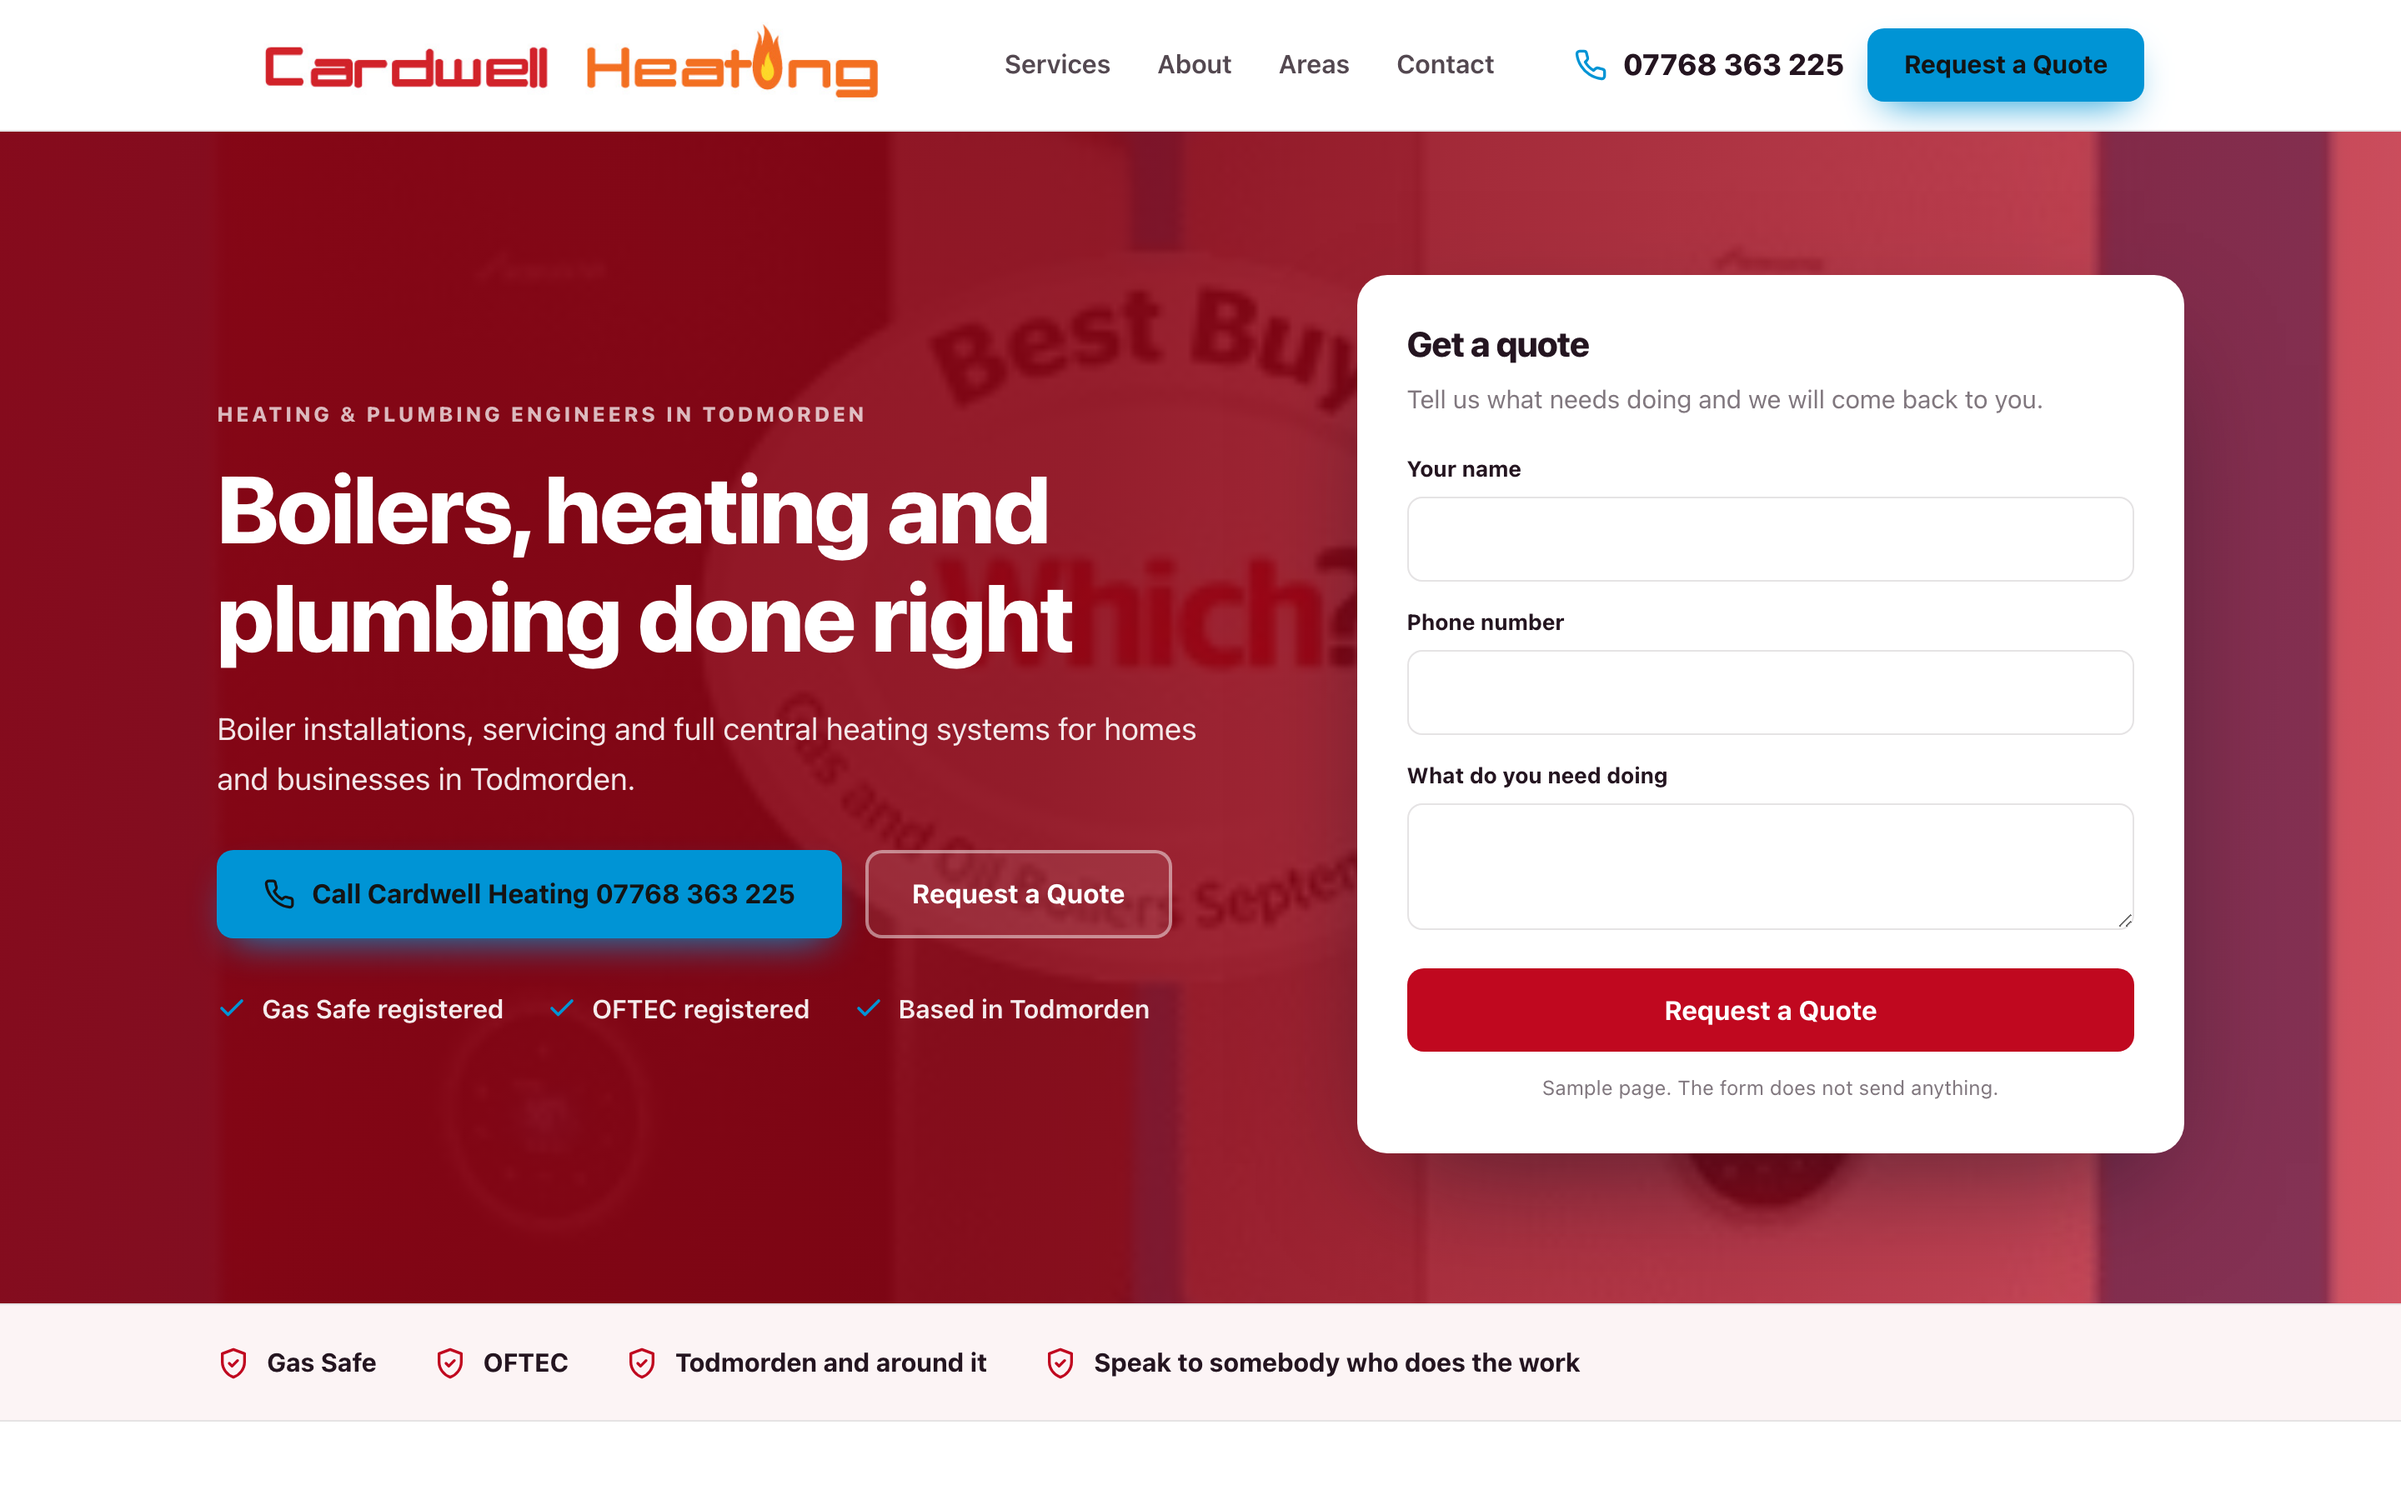
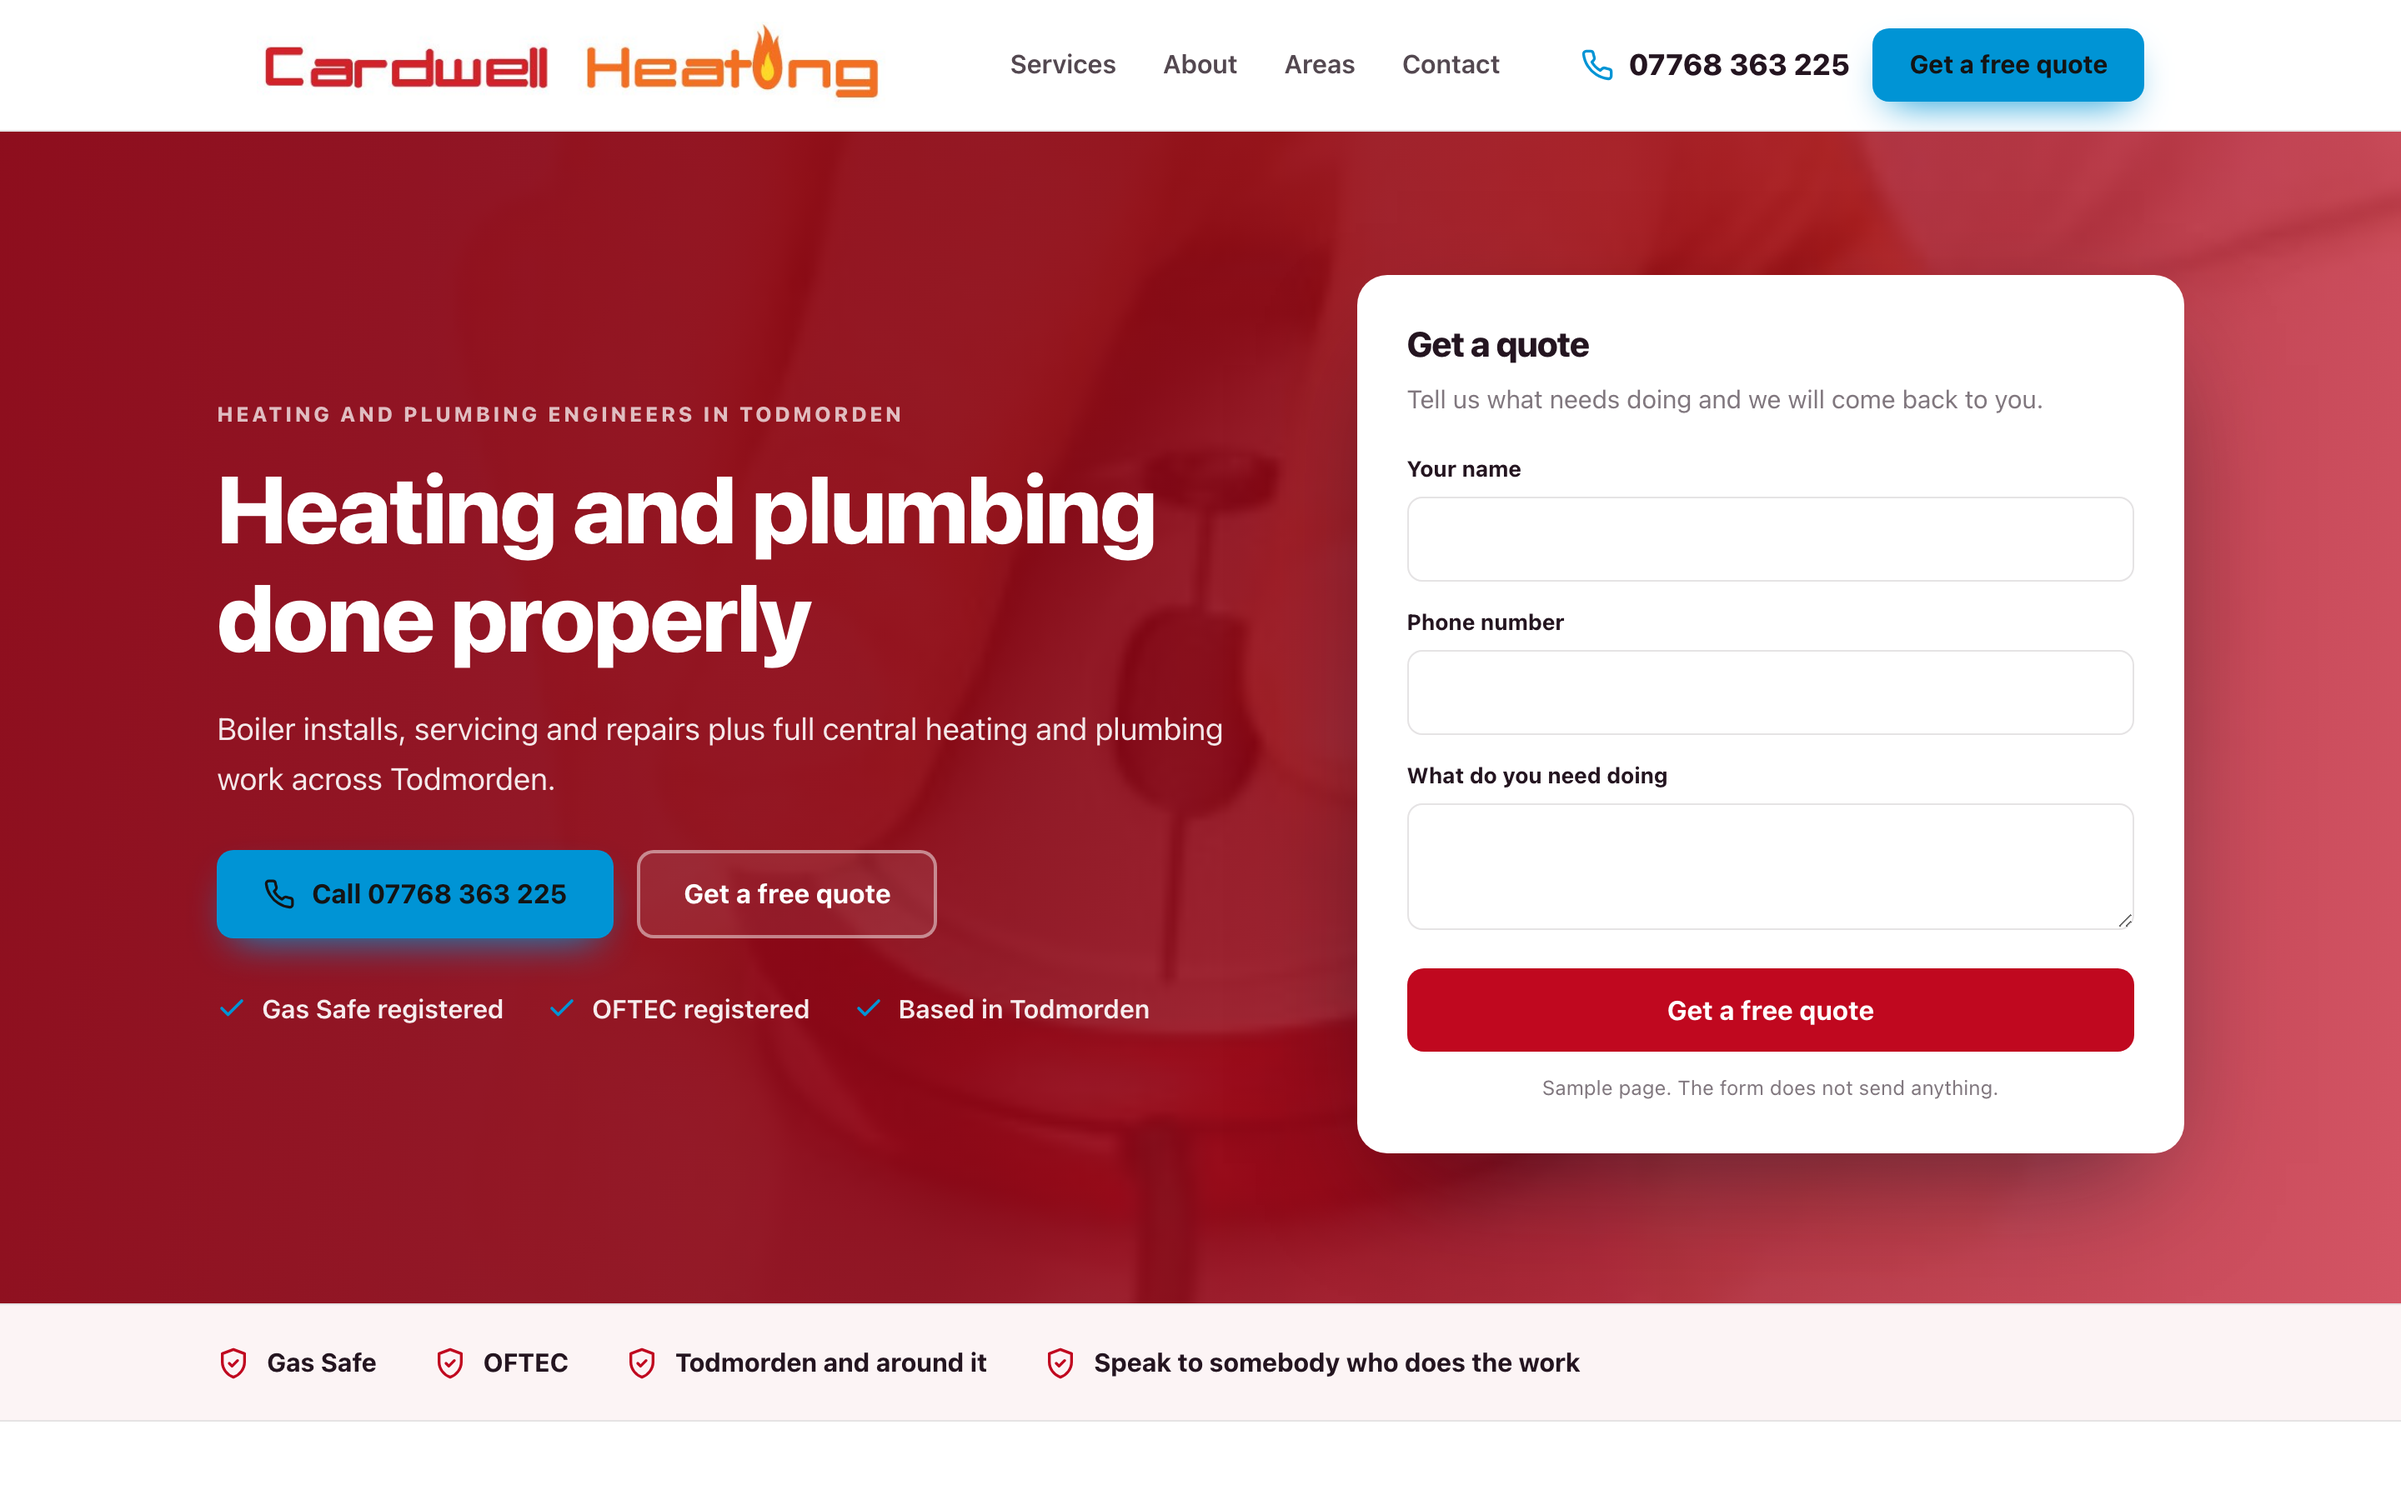
Sample homepage for Cardwell Heating

diff --git a/docs/a19a406a34/index.html b/docs/a19a406a34/index.html
@@ -4,14 +4,15 @@
 <meta charset="utf-8">
 <meta name="viewport" content="width=device-width, initial-scale=1">
 <meta name="robots" content="noindex,nofollow">
-<title>Cardwell Heating Todmorden sample homepage</title>
-<meta name="description" content="Boiler installations, servicing and full central heating systems for homes and businesses in Todmorden.">
+<meta name="aso-build" content="">
+<title>Cardwell Heating sample homepage</title>
+<meta name="description" content="Boiler installs, servicing and repairs plus full central heating and plumbing work across Todmorden.">
 <link rel="canonical" href="https://markygff.github.io/aso-mockups/a19a406a34/">
 <meta property="og:type" content="website">
-<meta property="og:title" content="Cardwell Heating Todmorden sample homepage">
-<meta property="og:description" content="Boiler installations, servicing and full central heating systems for homes and businesses in Todmorden.">
+<meta property="og:title" content="Cardwell Heating sample homepage">
+<meta property="og:description" content="Boiler installs, servicing and repairs plus full central heating and plumbing work across Todmorden.">
 <meta property="og:url" content="https://markygff.github.io/aso-mockups/a19a406a34/">
-<meta property="og:image" content="http://www.i-promote.eu/wai/wai_global/home_banner/gold_banner_365.jpg"><style>
+<meta property="og:image" content="img/t13.jpg"><style>
 :root{
   --primary:#c0081f;
   --primary-dark:#8a0616;
@@ -52,7 +53,8 @@ p{margin:0}
 .nav{display:flex;gap:28px;margin-left:auto;font-weight:600;font-size:.97rem;color:var(--ink)}
 .nav span{opacity:.78}
 .header-cta{display:flex;align-items:center;gap:14px;margin-left:28px}
-.tel{display:flex;align-items:center;gap:9px;font-weight:800;font-size:1.1rem;color:var(--ink)}
+.tel{display:flex;align-items:center;gap:9px;font-weight:800;font-size:1.1rem;
+     color:var(--ink);text-decoration:none}
 .tel svg{width:20px;height:20px;color:var(--accent)}
 .header-cta .btn{padding:12px 20px;font-size:.95rem}
 
@@ -119,27 +121,27 @@ p{margin:0}
 <header class="header">
   <div class="wrap header-in">
     <div class="brand">
-<img src="https://www.cardwellheating.co.uk/images/logo.jpg" alt="Cardwell Heating Todmorden logo">    </div>
+<img src="img/logo.jpg" alt="Cardwell Heating logo">    </div>
     <nav class="nav">
       <span>Services</span><span>About</span><span>Areas</span><span>Contact</span>
     </nav>
     <div class="header-cta">
-      <span class="tel"><svg viewBox="0 0 24 24" fill="none" stroke="currentColor" stroke-width="2" stroke-linecap="round" stroke-linejoin="round" aria-hidden="true"><path d="M22 16.9v3a2 2 0 0 1-2.2 2 19.8 19.8 0 0 1-8.6-3.1 19.5 19.5 0 0 1-6-6 19.8 19.8 0 0 1-3.1-8.7A2 2 0 0 1 4.1 2h3a2 2 0 0 1 2 1.7c.1 1 .4 1.9.7 2.8a2 2 0 0 1-.5 2.1L8.1 9.9a16 16 0 0 0 6 6l1.3-1.2a2 2 0 0 1 2.1-.5c.9.3 1.8.6 2.8.7a2 2 0 0 1 1.7 2z"/></svg><span>07768 363 225</span></span>
-      <span class="btn btn-accent">Request a Quote</span>
+      <a class="tel" href="tel:+447768363225"><svg viewBox="0 0 24 24" fill="none" stroke="currentColor" stroke-width="2" stroke-linecap="round" stroke-linejoin="round" aria-hidden="true"><path d="M22 16.9v3a2 2 0 0 1-2.2 2 19.8 19.8 0 0 1-8.6-3.1 19.5 19.5 0 0 1-6-6 19.8 19.8 0 0 1-3.1-8.7A2 2 0 0 1 4.1 2h3a2 2 0 0 1 2 1.7c.1 1 .4 1.9.7 2.8a2 2 0 0 1-.5 2.1L8.1 9.9a16 16 0 0 0 6 6l1.3-1.2a2 2 0 0 1 2.1-.5c.9.3 1.8.6 2.8.7a2 2 0 0 1 1.7 2z"/></svg><span>07768 363 225</span></a>
+      <span class="btn btn-accent">Get a free quote</span>
     </div>
   </div>
 </header>
 
 <section class="hero">
-  <div class="hero-bg"><img src="http://www.i-promote.eu/wai/wai_global/home_banner/gold_banner_365.jpg" alt="Worcester Boiler Guarantee Yorkshire" width="1600" height="900"></div>
+  <div class="hero-bg"><img src="img/t13.jpg" alt="Contact Cardwell Heating Lancashire" width="1600" height="900"></div>
   <div class="wrap hero-in">
     <div>
-      <p class="eyebrow">Heating &amp; plumbing engineers in Todmorden</p>
-      <h1>Boilers, heating and plumbing done right</h1>
-      <p class="hero-sub">Boiler installations, servicing and full central heating systems for homes and businesses in Todmorden.</p>
+      <p class="eyebrow">Heating and plumbing engineers in Todmorden</p>
+      <h1>Heating and plumbing done properly</h1>
+      <p class="hero-sub">Boiler installs, servicing and repairs plus full central heating and plumbing work across Todmorden.</p>
       <div class="hero-actions">
-        <span class="btn btn-accent"><svg viewBox="0 0 24 24" fill="none" stroke="currentColor" stroke-width="2" stroke-linecap="round" stroke-linejoin="round" aria-hidden="true"><path d="M22 16.9v3a2 2 0 0 1-2.2 2 19.8 19.8 0 0 1-8.6-3.1 19.5 19.5 0 0 1-6-6 19.8 19.8 0 0 1-3.1-8.7A2 2 0 0 1 4.1 2h3a2 2 0 0 1 2 1.7c.1 1 .4 1.9.7 2.8a2 2 0 0 1-.5 2.1L8.1 9.9a16 16 0 0 0 6 6l1.3-1.2a2 2 0 0 1 2.1-.5c.9.3 1.8.6 2.8.7a2 2 0 0 1 1.7 2z"/></svg>Call Cardwell Heating 07768 363 225</span>
-        <span class="btn btn-ghost">Request a Quote</span>
+        <span class="btn btn-accent"><svg viewBox="0 0 24 24" fill="none" stroke="currentColor" stroke-width="2" stroke-linecap="round" stroke-linejoin="round" aria-hidden="true"><path d="M22 16.9v3a2 2 0 0 1-2.2 2 19.8 19.8 0 0 1-8.6-3.1 19.5 19.5 0 0 1-6-6 19.8 19.8 0 0 1-3.1-8.7A2 2 0 0 1 4.1 2h3a2 2 0 0 1 2 1.7c.1 1 .4 1.9.7 2.8a2 2 0 0 1-.5 2.1L8.1 9.9a16 16 0 0 0 6 6l1.3-1.2a2 2 0 0 1 2.1-.5c.9.3 1.8.6 2.8.7a2 2 0 0 1 1.7 2z"/></svg>Call 07768 363 225</span>
+        <span class="btn btn-ghost">Get a free quote</span>
       </div>
       <ul class="hero-bullets">
 <li><svg viewBox="0 0 24 24" fill="none" stroke="currentColor" stroke-width="2.4" stroke-linecap="round" stroke-linejoin="round" aria-hidden="true"><path d="M20 6 9 17l-5-5"/></svg><span>Gas Safe registered</span></li><li><svg viewBox="0 0 24 24" fill="none" stroke="currentColor" stroke-width="2.4" stroke-linecap="round" stroke-linejoin="round" aria-hidden="true"><path d="M20 6 9 17l-5-5"/></svg><span>OFTEC registered</span></li><li><svg viewBox="0 0 24 24" fill="none" stroke="currentColor" stroke-width="2.4" stroke-linecap="round" stroke-linejoin="round" aria-hidden="true"><path d="M20 6 9 17l-5-5"/></svg><span>Based in Todmorden</span></li>      </ul>
@@ -150,7 +152,7 @@ p{margin:0}
       <div class="field"><label>Your name</label><input type="text" disabled></div>
       <div class="field"><label>Phone number</label><input type="tel" disabled></div>
       <div class="field"><label>What do you need doing</label><textarea disabled></textarea></div>
-      <span class="btn btn-primary">Request a Quote</span>
+      <span class="btn btn-primary">Get a free quote</span>
       <p class="sample-note">Sample page. The form does not send anything.</p>
     </div>
   </div>
@@ -169,29 +171,29 @@ p{margin:0}
   <div class="wrap">
     <div class="services-head">
       <p class="eyebrow">What we do</p>
-      <h2>Cardwell Heating Todmorden, Todmorden</h2>
-      <p>Boiler installations, servicing and full central heating systems for homes and businesses in Todmorden.</p>
+      <h2>Cardwell Heating, Todmorden</h2>
+      <p>Boiler installs, servicing and repairs plus full central heating and plumbing work across Todmorden.</p>
     </div>
     <div class="grid">
       <article class="card">
         <div class="icon"><svg viewBox="0 0 24 24" fill="none" stroke="currentColor" stroke-width="2" stroke-linecap="round" stroke-linejoin="round" aria-hidden="true"><path d="M14.7 6.3a4 4 0 0 0 5.3 5.3l-8 8a3 3 0 0 1-4.2-4.2z"/><path d="m14.7 6.3 3-3"/></svg></div>
         <h3>Boiler installations</h3>
-        <p>New boilers fitted properly, no shortcuts.</p>
+        <p>New boiler fitted and set up properly from the start.</p>
       </article>
       <article class="card">
         <div class="icon"><svg viewBox="0 0 24 24" fill="none" stroke="currentColor" stroke-width="2" stroke-linecap="round" stroke-linejoin="round" aria-hidden="true"><path d="M13 2 4 14h7l-1 8 9-12h-7z"/></svg></div>
         <h3>Boiler servicing &amp; repairs</h3>
-        <p>We service and repair boilers to keep them running safely.</p>
+        <p>Regular servicing and repairs to keep your boiler running.</p>
       </article>
       <article class="card">
         <div class="icon"><svg viewBox="0 0 24 24" fill="none" stroke="currentColor" stroke-width="2" stroke-linecap="round" stroke-linejoin="round" aria-hidden="true"><path d="M3 10.5 12 3l9 7.5"/><path d="M5 9.5V21h14V9.5"/><path d="M10 21v-6h4v6"/></svg></div>
         <h3>Central heating installations</h3>
-        <p>Full central heating systems designed and installed for your home.</p>
+        <p>Full central heating systems designed and fitted.</p>
       </article>
       <article class="card">
         <div class="icon"><svg viewBox="0 0 24 24" fill="none" stroke="currentColor" stroke-width="2" stroke-linecap="round" stroke-linejoin="round" aria-hidden="true"><path d="M4 20 15 9"/><path d="m14 4 6 6-3 3-6-6z"/><path d="m3 15 6 6"/></svg></div>
         <h3>Gas safety inspections</h3>
-        <p>Gas safety checks for landlords and homeowners.</p>
+        <p>Gas safety checks and landlord safety certificates.</p>
       </article>
     </div>
   </div>
@@ -199,7 +201,7 @@ p{margin:0}
 
 <footer class="footer">
   <div class="wrap footer-in">
-    <span>Sample built for Cardwell Heating Todmorden from your public website. Not live. Tell us and we delete it.</span>
+    <span>Sample built for Cardwell Heating from your public website. Not live. Tell us and we delete it.</span>
     <span>cardwellheating.co.uk</span>
   </div>
 </footer>
